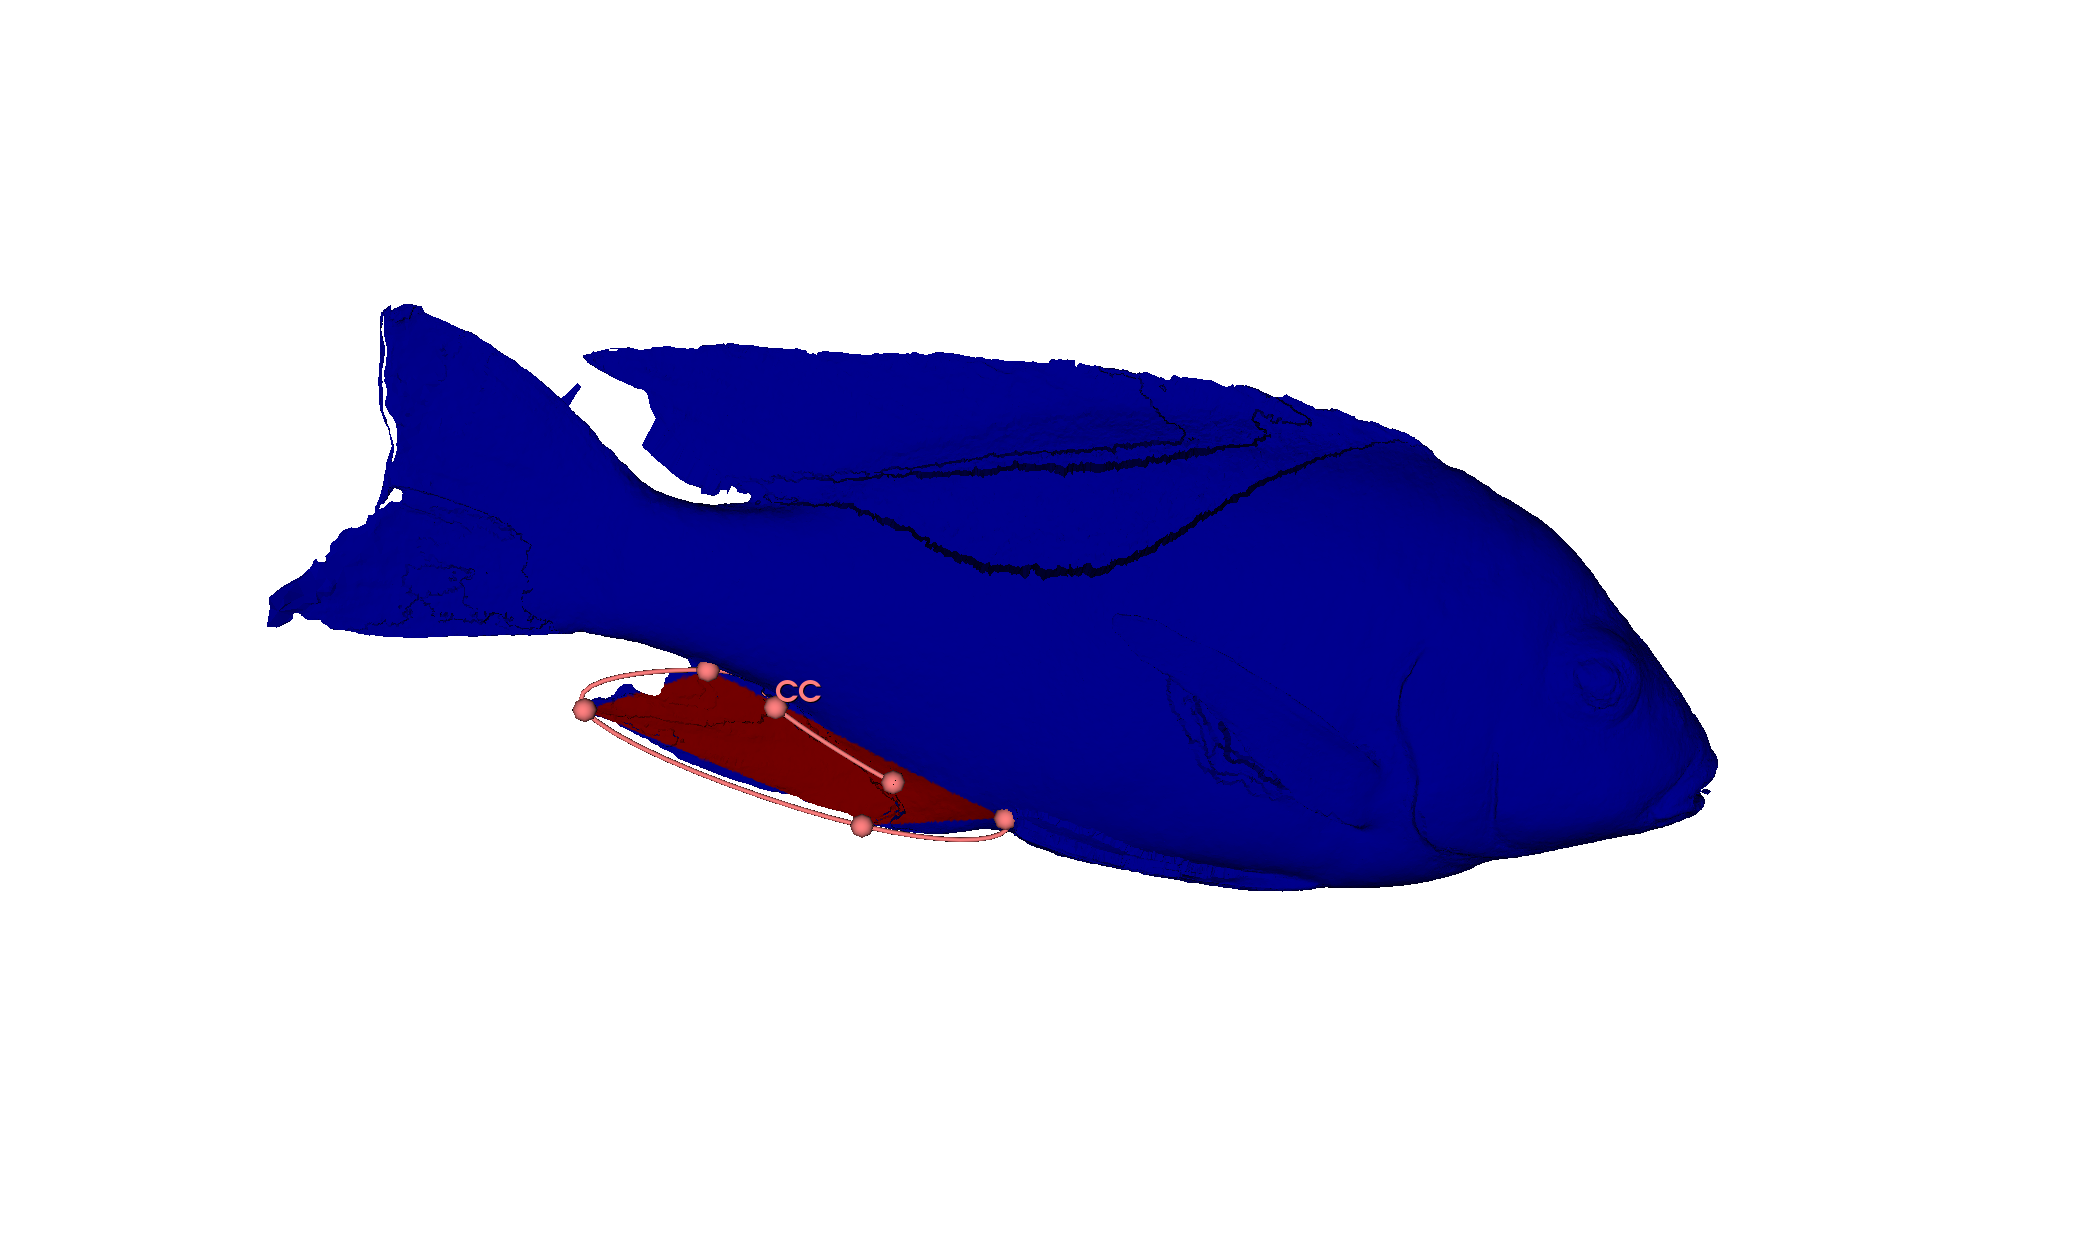
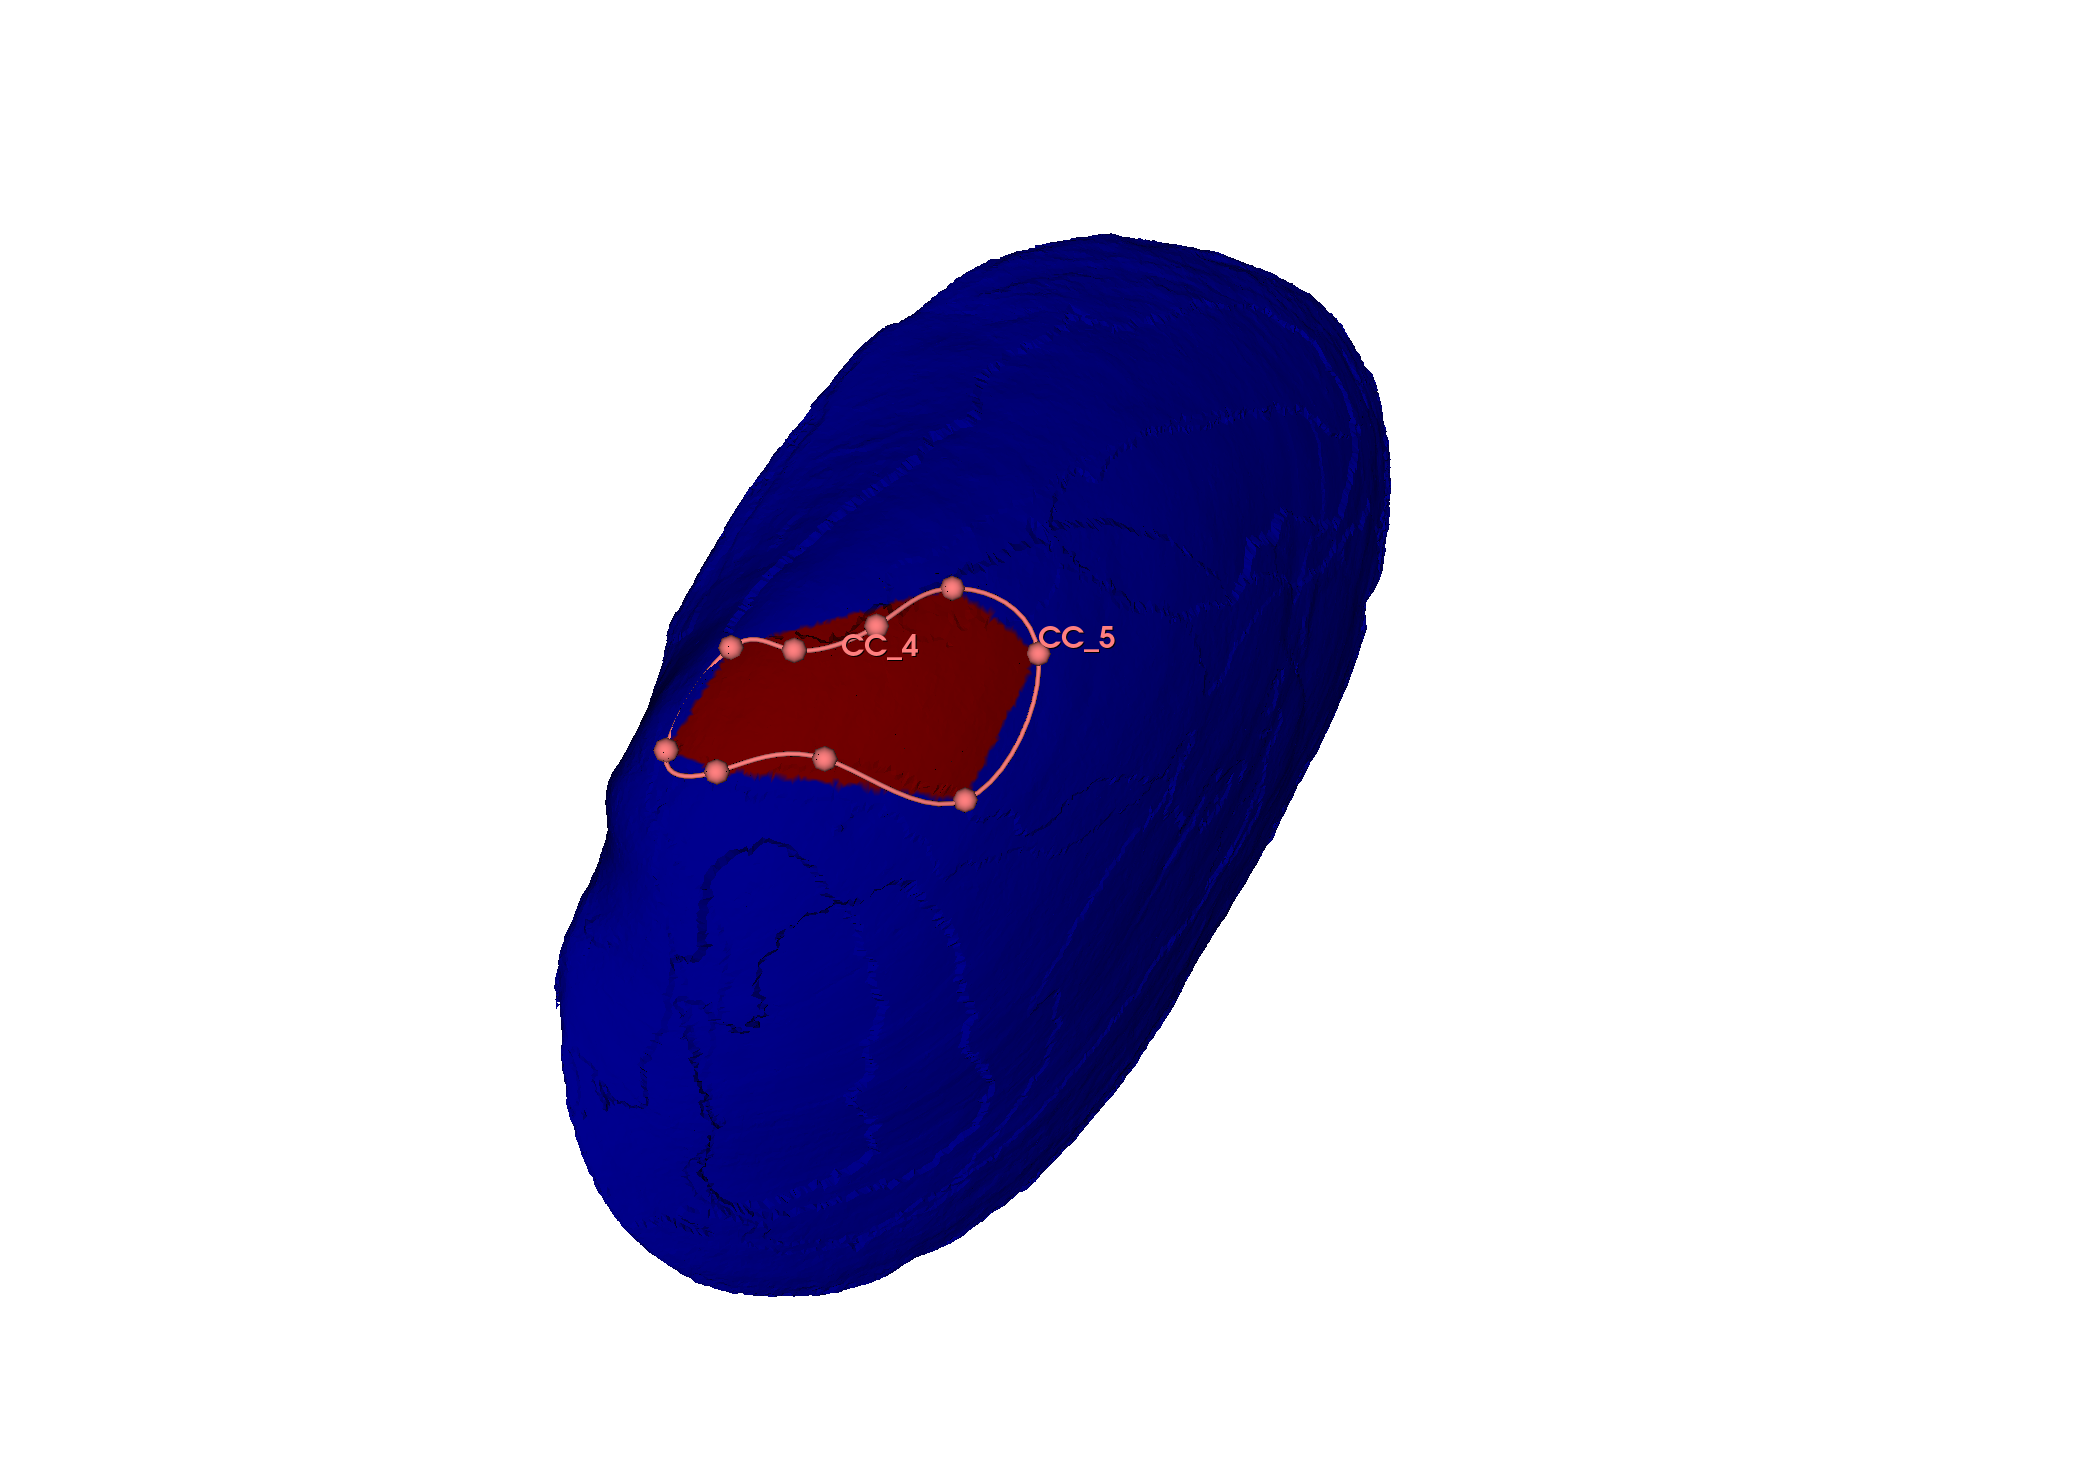
add PCA

Changed region(s): [[0.1249, 0.1527, 0.8429, 0.8859]]

diff --git a/Tutorials/MultiRecolor_Tutorial.md b/Tutorials/MultiRecolor_Tutorial.md
@@ -104,6 +104,9 @@ Choose one of three methods:
 3. Each point in the plot represents one texture/specimen.
 4. The plot is interactive - you can change the axes to view different component combinations.
 
+![Population Analysis](images/PCA.png)
+*Figure 1: Population Analysis showing PCA results.*
+
 ---
 
 ## Step 4: Morphospace
@@ -135,7 +138,13 @@ Once visualization starts:
 
 ### Interpretation
 
-- Moving along an axis shows how color patterns change along that dimension of variation
+- Moving along an axis shows how color patterns change along that dimension of variation.
+
+![PCA Y Axis Minimum](images/PCA_Y_min.png)
+*Y-axis Minimum Variation*
+
+![PCA Y Axis Maximum](images/PCA_Y_max.png)
+*Y-axis Maximum Variation*
 - Positions near existing specimens will look similar to those specimens
 - Positions between specimens show interpolated color patterns
 - Extreme positions (beyond the range of observed specimens) extrapolate color patterns
